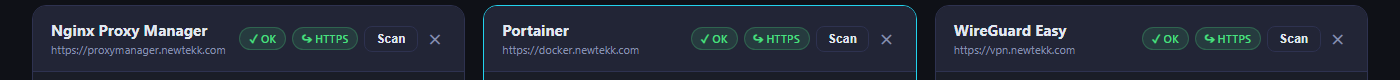
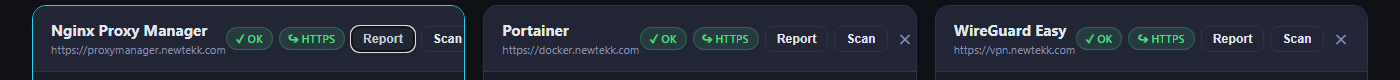
docs: update screenshots and README for detail view feature
Retook dashboard screenshot showing the new Report button in card
headers. Updated card header close-up. Added detail view and
recommendations screenshots to README with feature descriptions.

diff --git a/README.md b/README.md
@@ -21,6 +21,12 @@ A self-hosted security dashboard for monitoring your web services. Checks SSL ce
 ![HTTP→HTTPS Redirect](docs/screenshots/08_redirect_badge.png)
 *HTTP→HTTPS redirect badge — green ↪ HTTPS when port 80 redirects correctly, red when missing*
 
+![Detail View](docs/screenshots/09_detail_view.png)
+*Full-screen detail view — 6-metric scorecard, all sections expanded, header fix directives pre-opened*
+
+![Recommendations](docs/screenshots/09b_detail_recommendations.png)
+*Recommendations panel — aggregates every failing check with copy-ready Nginx fix directives*
+
 ![Fix Recommendations](docs/screenshots/03_fix_recommendation.png)
 *Click any failing header to expand a copy-ready Nginx directive*
 
@@ -38,6 +44,8 @@ A self-hosted security dashboard for monitoring your web services. Checks SSL ce
 - **DNS Security** — DNSSEC, CAA issuers, SPF, DMARC (policy: reject/quarantine/none), and on-demand DKIM selector lookup
 - **Cookie Security** — Secure, HttpOnly, SameSite flags per cookie; session-like names highlighted; issue count summary
 - **HTTP→HTTPS Redirect** — checks whether plain HTTP (port 80) redirects to HTTPS; green badge in card header when working, red when missing
+- **Full-screen Detail View** — click any card title or the Report button to open a full-screen overlay with a 6-metric scorecard, all sections expanded, and a Recommendations panel aggregating every failing check with copy-ready Nginx fixes
+- **PDF Export** — Export PDF button renders a clean white-background report via the browser print dialog; all badges and code blocks styled for print
 - **Server Info** — software, IP address, HTTP status, response time, X-Powered-By
 - **Browser Support** — TLS 1.2/1.3 and HTTP/2 probed directly, with human-readable compatibility notes
 - **Fix Recommendations** — click any failing header to expand a copy-ready Nginx directive